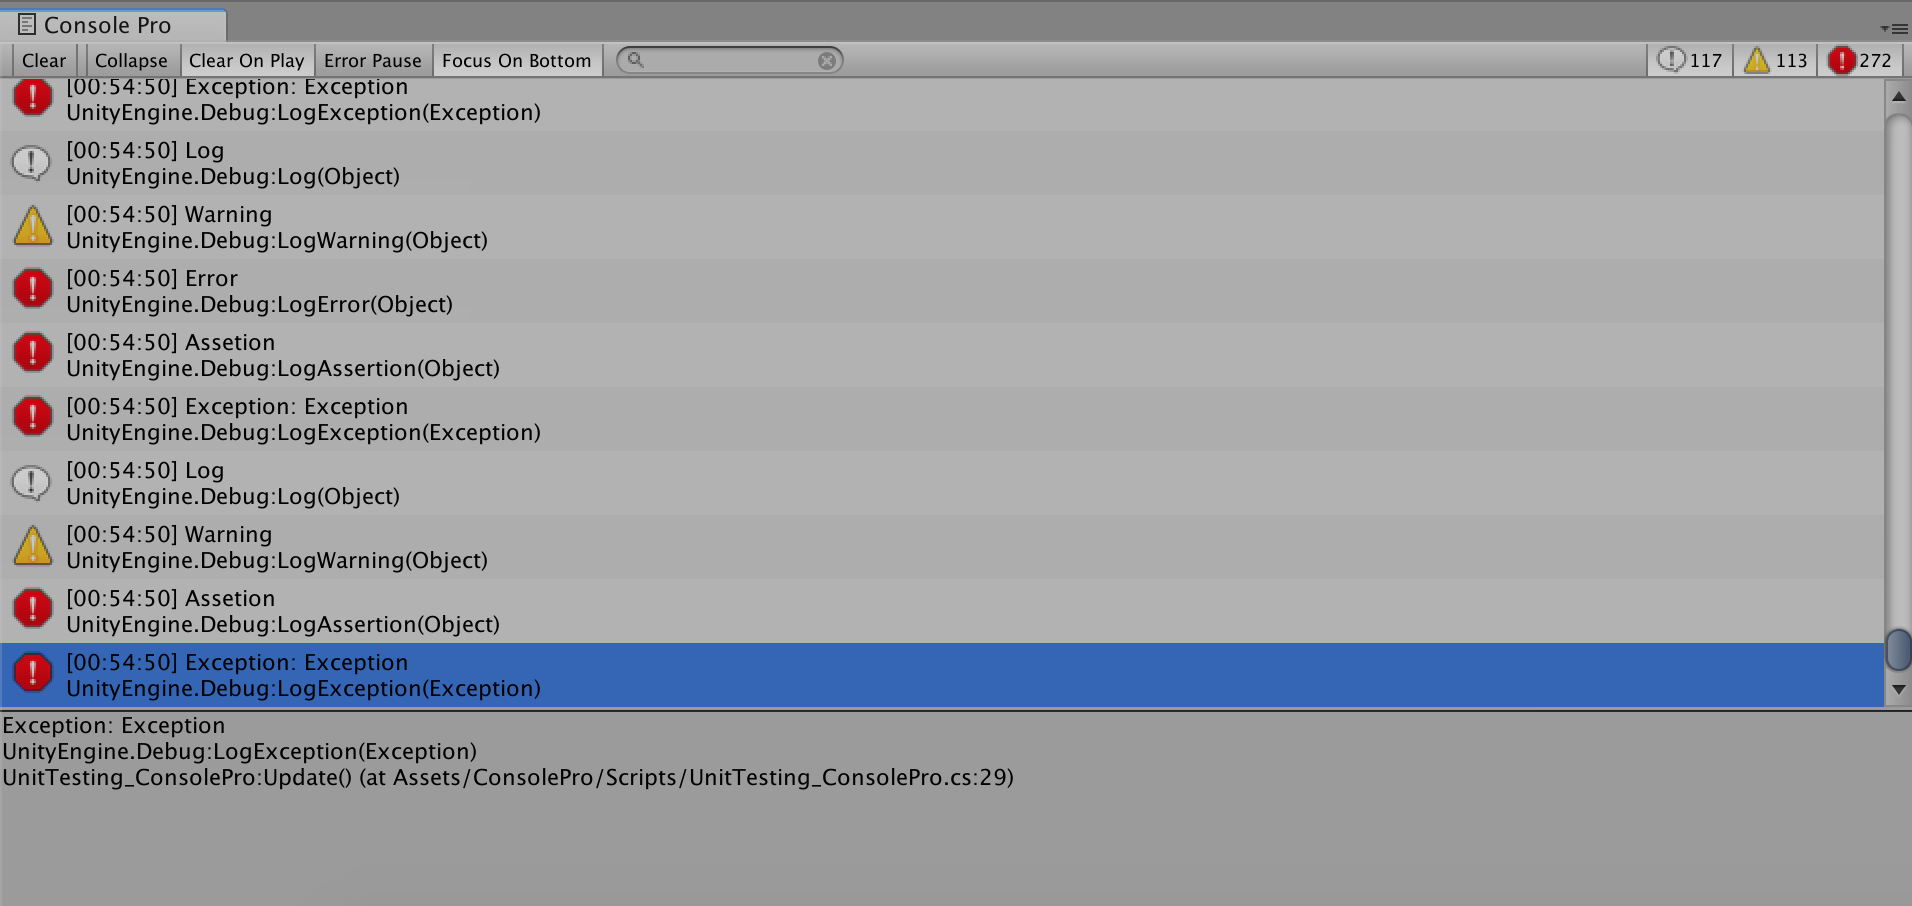
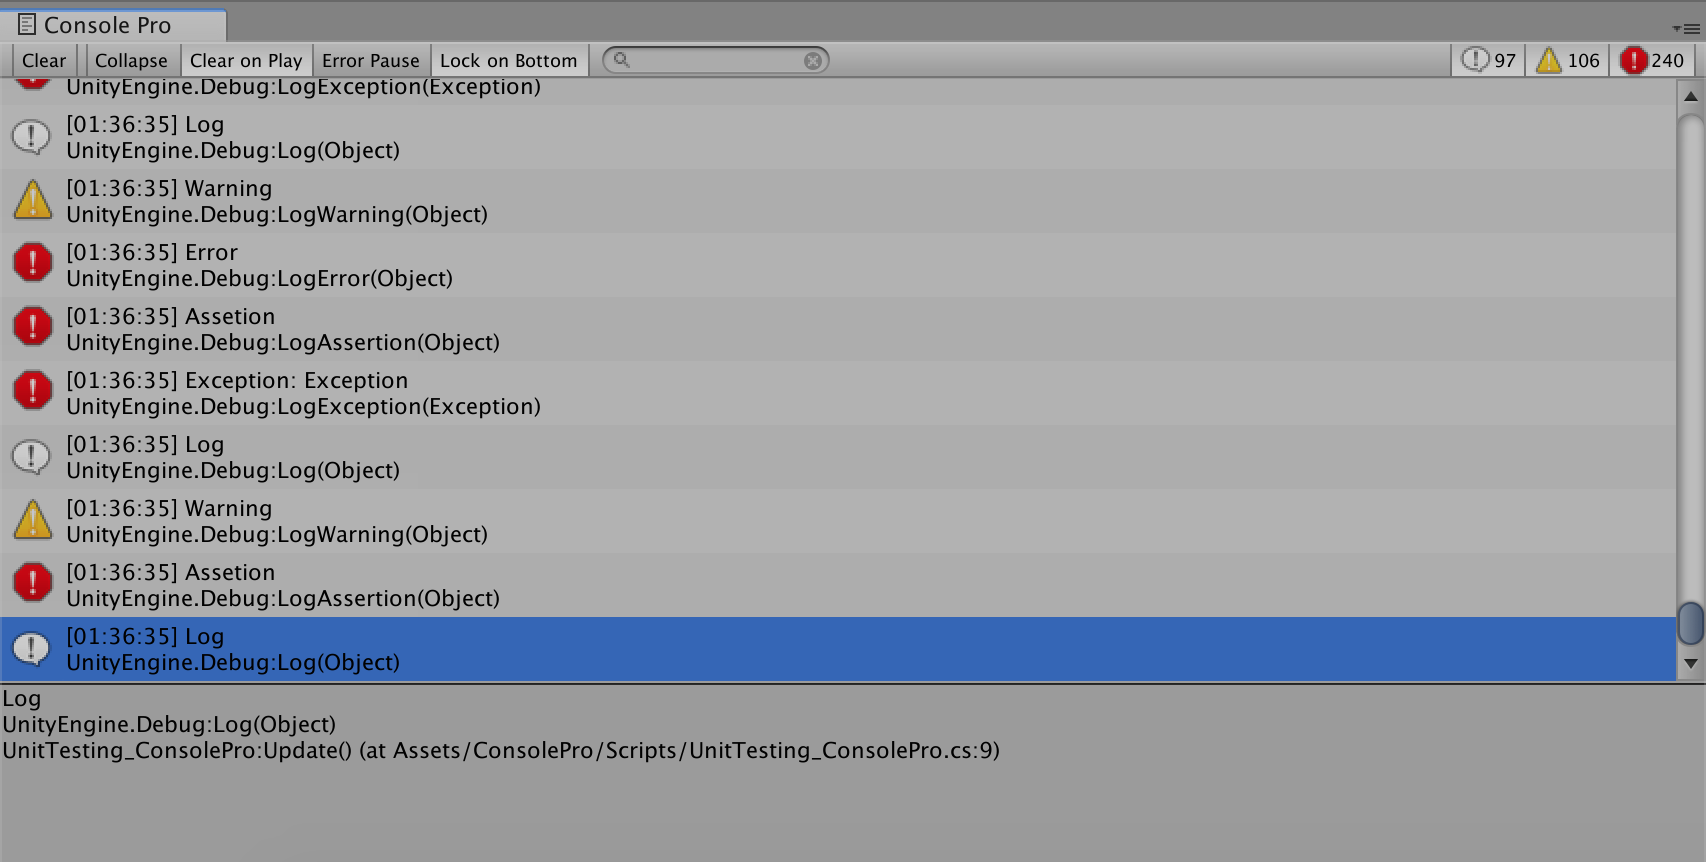
Add description.

Changed region(s): [[0.0, 0.0, 1.0, 0.9049]]

diff --git a/Assets/ConsolePro/Scripts/Editor/ConsoleProTitlePanel.cs b/Assets/ConsolePro/Scripts/Editor/ConsoleProTitlePanel.cs
@@ -10,7 +10,7 @@ public class ConsoleProTitlePanel : BaseConsoleProPanel
 
     public bool toggleClearOnPlay = true;
     public bool toggleErrorPause;
-    public bool toggleFocusOnBottom = true;
+    public bool toggleLockOnBottom = true;
 
     private bool m_toggleCollapse;
     private string m_searchFilter;
@@ -43,9 +43,9 @@ public class ConsoleProTitlePanel : BaseConsoleProPanel
         GUILayout.Space(5);
 
         m_toggleCollapse = GUILayout.Toggle(m_toggleCollapse, new GUIContent("Collapse"), EditorStyles.toolbarButton, GUILayout.ExpandWidth(true));
-        toggleClearOnPlay = GUILayout.Toggle(toggleClearOnPlay, new GUIContent("Clear On Play"), EditorStyles.toolbarButton, GUILayout.ExpandWidth(true));
+        toggleClearOnPlay = GUILayout.Toggle(toggleClearOnPlay, new GUIContent("Clear on Play"), EditorStyles.toolbarButton, GUILayout.ExpandWidth(true));
         toggleErrorPause = GUILayout.Toggle(toggleErrorPause, new GUIContent("Error Pause"), EditorStyles.toolbarButton, GUILayout.ExpandWidth(true));
-        toggleFocusOnBottom = GUILayout.Toggle(toggleFocusOnBottom, new GUIContent("Focus On Bottom"), EditorStyles.toolbarButton, GUILayout.ExpandWidth(true));
+        toggleLockOnBottom = GUILayout.Toggle(toggleLockOnBottom, new GUIContent("Lock on Bottom"), EditorStyles.toolbarButton, GUILayout.ExpandWidth(true));
 
         GUILayout.Space(1);
 

diff --git a/Assets/ConsolePro/Scripts/Editor/ConsolePro.cs b/Assets/ConsolePro/Scripts/Editor/ConsolePro.cs
@@ -60,7 +60,7 @@ public class ConsolePro : EditorWindow
     {
         if (log != null)
         {
-            if(m_consoleProTitlePanel != null && m_consoleProTitlePanel.toggleFocusOnBottom)
+            if(m_consoleProTitlePanel != null && m_consoleProTitlePanel.toggleLockOnBottom)
             {
                 m_consoleProUpperPanel.SetScrollPosition(new Vector2(0, m_logMessageReceiver.filterLogs.Count * 32));
             }

diff --git a/README.md b/README.md
@@ -1,4 +1,40 @@
-# ConsolePro
+# Console Pro
 <p align="center">
 <img style="margin:auto;"  src="https://github.com/ted10401/ConsolePro/blob/master/GithubResources/consolepro-profile.png">
+</p>
+
+## Intro
+The original one is great but don't contain the 'Search Filter' most important feature.
+Console Pro is the clone of Unity's Console Window with the 'Search Filter' features.
+The whole window includes four parts, title panel, upper panel, resize panel, and lower panel.
+
+### Title Panel
+<p align="center">
+<img style="margin:auto;"  src="https://github.com/ted10401/ConsolePro/blob/master/GithubResources/consolepro-title.png">
+</p>
+
+The title panel contains several buttons, Clear, Collapse, Clear on Play, Error Pause, Lock on Bottom, Search Filter, Show Logs, Show Warnings, and Show Errors.
+Clear: The button to clear logs.
+Collapse: The toggle to collapse logs. The collpase value would show on the right side of the single log information.
+Clear on Play: The toggle to clear the logs after the application plays. (Knowing Issue, the logs would be cleared all the time.)
+Error Pause: The toggle to paue the application if the error log show up.
+Lock on Bottom: The toggle to lock the scroll view on the bottom to focus on the latest logs.
+Search Filter: The text filed to filter the logs.
+Show Logs: The toggle to show logs or not.
+Show Warnings: The toggle to show warnings or not.
+Show Errors: The toggle to show errors or not.
+
+### Upper Panel
+<p align="center">
+<img style="margin:auto;"  src="https://github.com/ted10401/ConsolePro/blob/master/GithubResources/consolepro-upper.png">
+</p>
+
+### Resize Panel
+<p align="center">
+<img style="margin:auto;"  src="https://github.com/ted10401/ConsolePro/blob/master/GithubResources/consolepro-resize.png">
+</p>
+
+### Lower Panel
+<p align="center">
+<img style="margin:auto;"  src="https://github.com/ted10401/ConsolePro/blob/master/GithubResources/consolepro-lower.png">
 </p>
